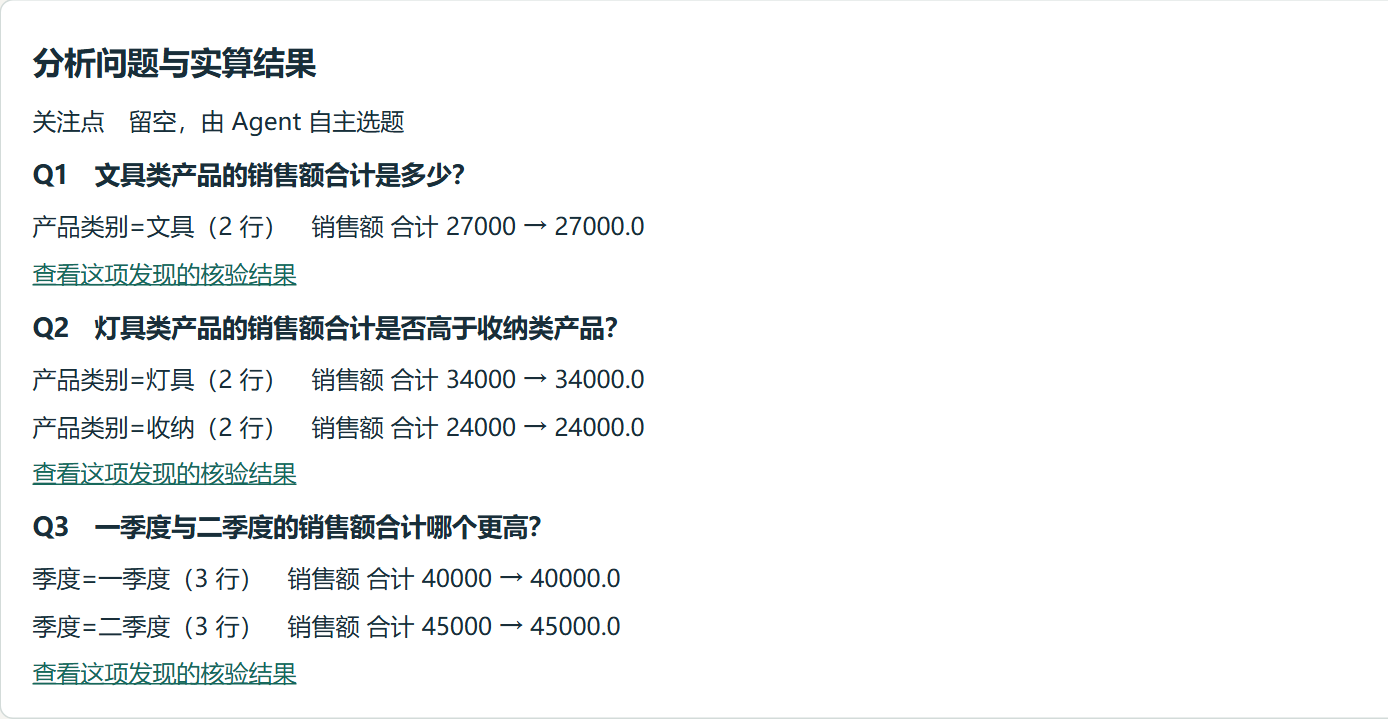
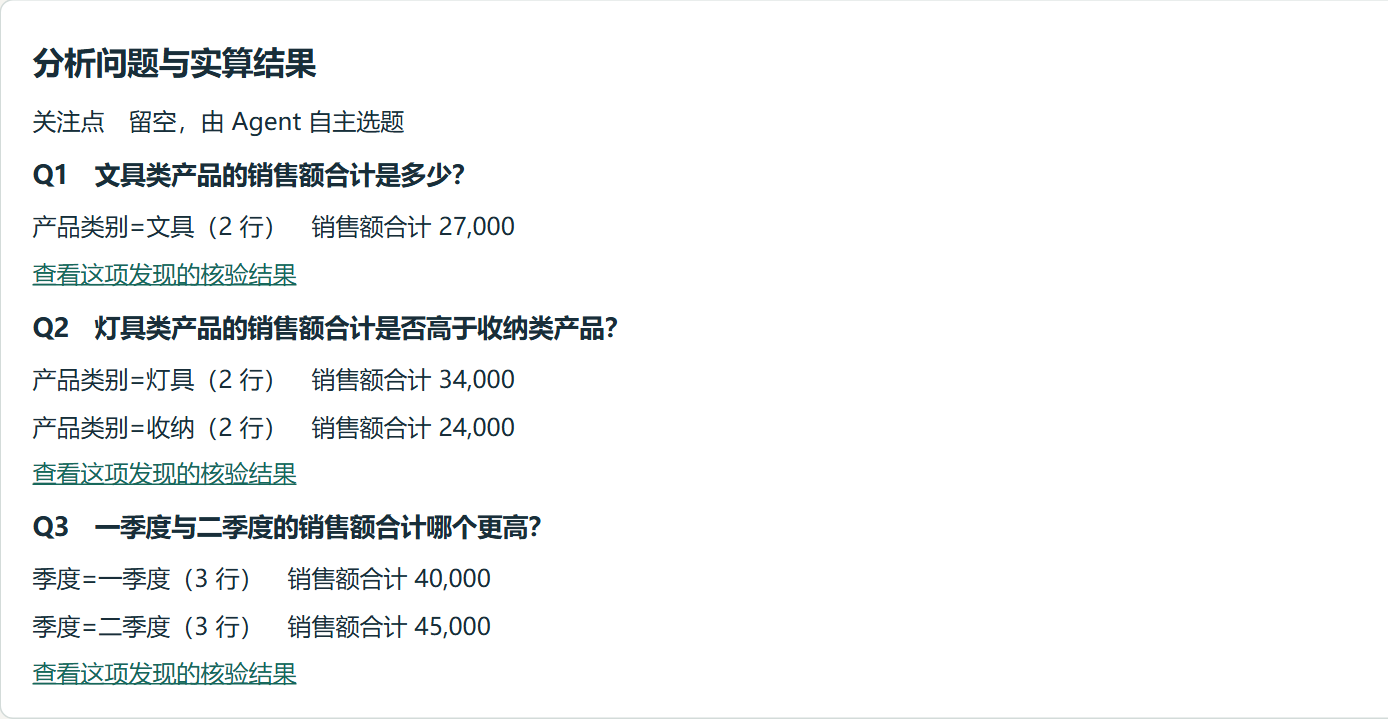
Clarify aggregate display and finalize report feedback

diff --git a/reporting.py b/reporting.py
@@ -1,18 +1,42 @@
-import json
-from stats import INSUFFICIENT
+from decimal import Decimal, localcontext
+from fractions import Fraction
 
 def filters(f):
     return "、".join(f"{k}={v}" for k,v in f.items()) or "全部记录"
+
+def display_number(raw):
+    """Stored aggregates may be exact fractions of decimal CSV values."""
+    if "/" in str(raw):
+        value = Fraction(raw)
+        with localcontext() as ctx:
+            ctx.prec = len(str(abs(value.numerator))) + value.denominator.bit_length() + 2
+            decimal = Decimal(value.numerator) / Decimal(value.denominator)
+    else:
+        decimal = Decimal(str(raw))
+    text = format(decimal, ",f")
+    return text.rstrip("0").rstrip(".") if "." in text else text
+
 
 def evidence_text(q,r):
     parts=[]
     for side in ("left","right"):
         if side not in r:continue
-        x=r[side]
-        fraction=f"{x['num_field']} 合计 {x['numerator']}"
-        if x["den_field"]:fraction+=f" / {x['den_field']} 合计 {x['denominator']}"
-        parts.append(f"{filters(x['filters'])}（{x['rows']} 行）　{fraction} → {x['value']}{x['unit']}")
-    if "target" in r:parts.append("声明值 "+r["target"]+("%" if q["metric"]=="比例" else ""))
+        x = r[side]
+        num = display_number(x["numerator"])
+        if q["metric"] == "合计":
+            detail = f"{x['num_field']}合计 {num}"
+        elif q["metric"] == "计数":
+            detail = f"记录数 {num}"
+        else:
+            den = display_number(x["denominator"])
+            exact = Fraction(x["numerator"]) / Fraction(x["denominator"])
+            if q["metric"] == "比例":
+                exact *= 100
+            sign = "=" if exact == Fraction(x["value"]) else "≈"
+            detail = (f"{x['num_field']}/{x['den_field']}　"
+                      f"{num}/{den} {sign} {display_number(x['value'])}{x['unit']}")
+        parts.append(f"{filters(x['filters'])}（{x['rows']} 行）　{detail}")
+    if "target" in r:parts.append("声明值 "+display_number(r["target"])+("%" if q["metric"]=="比例" else ""))
     if r.get("reason"):parts.append(r["reason"])
     return parts
 

diff --git a/tests/test_discovery.py b/tests/test_discovery.py
@@ -14,7 +14,7 @@ sys.path.insert(0,str(ROOT))
 import app
 from audit import reproduce
 from discovery import analyze,checked_plan,evaluate_question
-from reporting import markdown
+from reporting import markdown,evidence_text
 from stats import read_csv
 
 def record(name):
@@ -49,6 +49,26 @@ class DiscoveryTests(unittest.TestCase):
         self.assertEqual(float(values[0]["left"]["value"]),2)
         self.assertEqual({float(values[1][s]["value"]) for s in ("left","right")},{2,126})
         self.assertEqual(float(values[2]["left"]["value"]),2/20*100)
+
+    def test_sum_displayed_once(self):
+        table=app.discovery_panel(self.d)
+        self.assertEqual(table.count("销售额合计 40,000"),1)
+        self.assertEqual(table.count("销售额合计 45,000"),1)
+        self.assertNotIn("→",table)
+
+    def test_fractional_sum_preserves_exact_value(self):
+        q=dict(metric="合计",num="销售额",left={},right=None)
+        rows=read_csv("销售额\n-1000.125\n-0.000000001\n".encode())
+        result=evaluate_question(rows,q)
+        self.assertEqual(evidence_text(q,result),["全部记录（2 行）　销售额合计 -1,000.125000001"])
+
+    def test_ratio_display_retains_population(self):
+        d=record("analysis-conversion")
+        panel=app.discovery_panel(d)
+        self.assertIn("月份=5月",panel)
+        self.assertIn("用户类型=新用户",panel)
+        self.assertIn("2/20 = 10%",panel)
+        self.assertIn("2/20 = 10%",markdown(d))
 
     def test_focus_and_missing_dimension(self):
         d=record("analysis-focus");a=d["analysis"]

diff --git a/report.md b/report.md
@@ -4,7 +4,7 @@
 
 ## 第一章　项目概述
 
-拿到一份数据表后，用户可以直接在网页上传文件，由系统提出分析问题、计算结果并写出有依据的发现。如果手头已有分析稿，也可以同时提交结论，让系统逐句核对。
+只有数据表时，上传文件即可获得有依据的分析发现。已有分析稿时，也可以提交结论，逐句核对。
 
 ### 1.1 方向选择理由
 
@@ -16,7 +16,7 @@
 
 ### 1.3 核心功能
 
-浏览器默认进入“分析数据”，上传 CSV 即可，关注点可留空。“核验结论”接受按行输入的原句。两种入口都可查看筛选条件和逐轮证据，下载 Markdown 报告及 JSON 记录，再在本机离线复算。
+系统可以根据表格中的字段自主提出分析问题，调用本地程序计算，再依据结果起草结论。系统生成的结论和用户提交的原句都要经过逐句核验。若原句涉及多个群体，审查时会检查计算是否覆盖了每个群体，发现遗漏便退回补算。用户可以查看判定理由和修订建议，也可以下载报告和计算记录，用原始数据独立复算。
 
 ## 第二章　系统设计
 
@@ -118,21 +118,21 @@ if not feedback:break
 
 ### 4.2 测试结果
 
-**只传 CSV 的五角色运行。** 销售表字段为“产品类别、季度、销售额”。关注点留空，Agent 自问“一季度与二季度的销售额合计哪个更高？”，本地按季度分别加总三行，得到 40000 和 45000。它起草“二季度的销售额合计高于一季度。”独立核验支持该句。转化表则自主选了五月新用户转化率等问题，计算出 2/20 = 10%。两次各调用模型六次，均实际下载 Markdown 和 JSON，各离线重放六项查询。另填关注点后，系统优先比较文具（12000 → 15000），指出缺少月份，无法判断逐月趋势。
+**只传 CSV 的五角色运行。** 销售表字段为“产品类别、季度、销售额”。关注点留空，Agent 自问“一季度与二季度的销售额合计哪个更高？”，本地按季度分别加总三行，得到 40000 和 45000。它起草“二季度的销售额合计高于一季度。”独立核验支持该句。转化表则自主选了五月新用户转化率等问题，计算出 2/20 = 10%。两次均经六次请求完成，导出后各重放六项查询。另填关注点后，系统优先比较文具（12000 → 15000），指出缺少月份，无法判断逐月趋势。
 
 ![销售表只上传文件后的自主提问和本地计算](figures/sales-analysis.png)
 
 *图 2　销售分析真实 Web 回放局部。三个问题由分析角色提出，下方各行显示对应筛选与汇总。*
 
-**“核验结论”模式的自然对照。** 在同一份数据、同一模型和相同统计工具下，单角色与四角色均判对 6/6。单角色用了两次模型请求，四角色用了四次，两者都在首次计算时选对了分组。此次观察到的差别是调用成本，准确率相同。
+**“核验结论”模式的自然对照。** 在同一份数据、同一模型和相同统计工具下，单角色与四角色均判对 6/6。单角色用了两次模型请求，四角色用了四次，两者都在首次计算时选对了分组。
 
-**深度突破候选：审查统计口径并据异议修订。** 核验模式单独取第 2 句，人工删除首轮查询两侧的用户类型筛选。图 3 中，新、老用户共用了总体分母 200。审查 Agent 分别指出两个比较都漏了用户类型，程序范围检查也报告了不一致。合并反馈进入下一轮后，新用户由 20% 降至 10%，老用户由 80% 降至 70%，当轮判定从“证据不足”变为“与数据矛盾”。异议确实改变了查询和判定，两项检查的作用未分别消融。
+**深度突破候选：审查统计口径并据异议修订。** 核验模式单独取第 2 句，人工删除首轮查询两侧的用户类型筛选。首轮两组共用分母 200。审查 Agent 分别指出两个比较都漏了用户类型，程序范围检查也报告了不一致。合并反馈进入下一轮后，新用户由 20% 降至 10%，老用户由 80% 降至 70%，当轮判定从“证据不足”变为“与数据矛盾”。异议确实改变了查询和判定，两项检查的作用未分别消融。
 
 ![人工注入后的真实回放：总体分母、缺失条件与分组补算](figures/dispute.png)
 
 *图 3　人工注入实验的真实 Web 回放。该实验单独提交六条测试原句中的第 2 句，因此页面显示为“原句 1”。对照两轮中每侧命中的行数，可看到分母从全体人数变为组内人数。*
 
-**方向突破候选：导出的计算证据可离线复现。** 下表为旧核验模式的离线实验。新模式另核对探索证据和最终发现；原“核验结论”端点也重新完成真实上传、两种下载及复算。40 项离线测试通过（原有 26 项、新增 14 项）。
+**方向突破候选：导出的计算证据可离线复现。** 下表为核验模式的复现实验。两种入口均完成真实上传、下载和复算。43 项离线测试通过（含三项数值展示回归测试）。
 
 | 操作 | 实际结果 |
 |---|---|
@@ -144,7 +144,11 @@ if not feedback:break
 
 **作者反馈：** 在销售回放里，从季度问题可以直接跳到对应的核验结果。我能先看清系统为何选了这两组，再查草稿有没有得到支持。
 
-以下两项按假设角色进行情境走查。**同学一（修改分析稿）：** 如果原稿写“均有提升”，我可以在核验入口找到逐组下降的修订建议。**同学二（复核统计）：** 我会对照两轮的人群筛选，确认 2/20 是五月新用户内部的比例，而 2/200 使用了全体人数。
+以下两项按撰稿和复核任务进行情境走查。
+
+**同学一（假设自己要修改一份分析稿）：** 如果稿中写着“新用户和老用户的转化率均有提升”，我会把这句话改成页面建议的“均有下降”。要在稿里补上具体数字，可以从判定理由中查到，新用户从 20% 降至 10%，老用户从 80% 降至 70%。
+
+**同学二（假设自己要复核报告中的数字）：** 看到五月新用户转化率是 10%，我会先确认分母取了哪些人。页面显示五月有 20 名新用户，其中 2 人转化，所以是 2/20。如果用当月全部 200 名用户作分母，算出的 1% 回答的就是另一个问题。
 
 ## 第五章　总结反思
 
